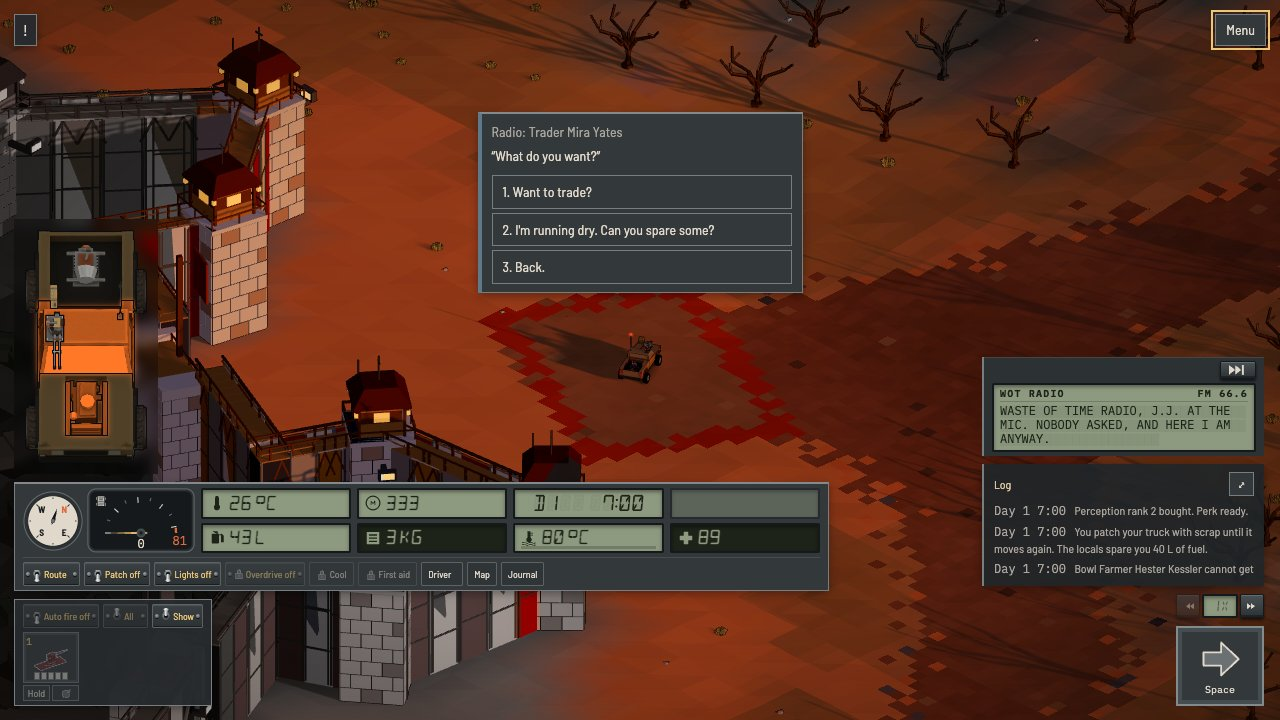
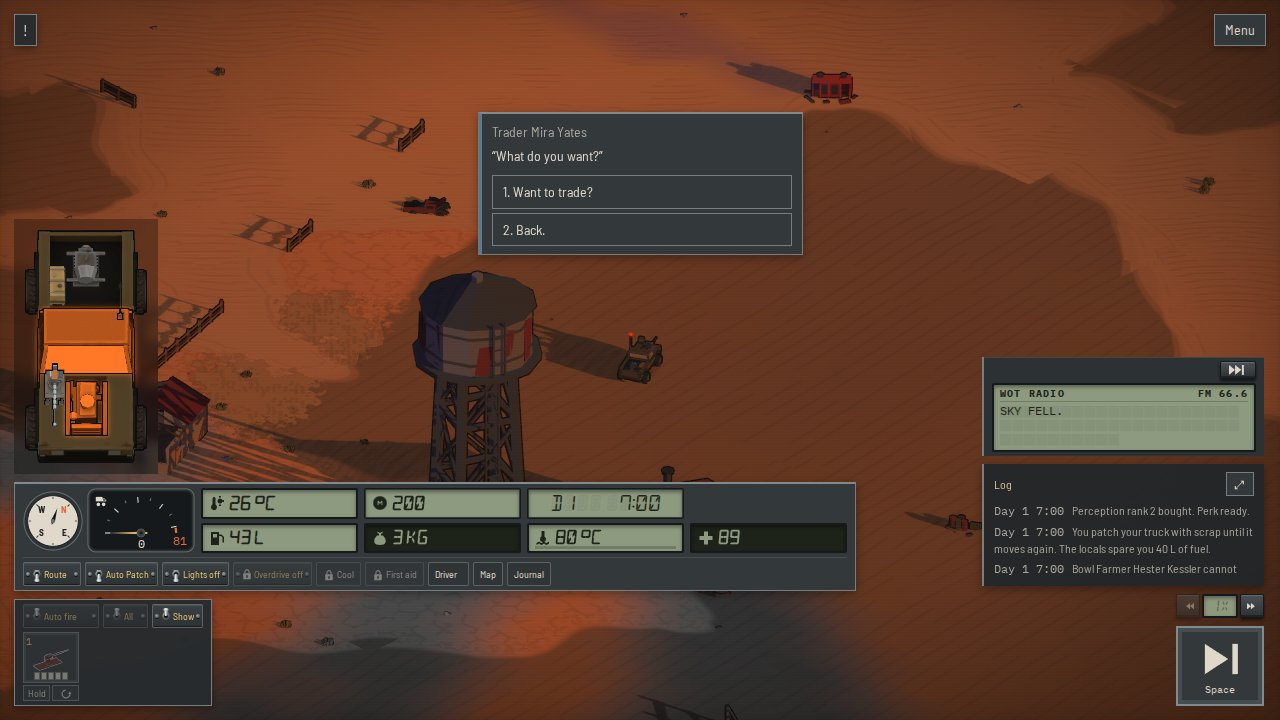
Radio quest questions: first page, stranger's price, wagon from any lead

diff --git a/game/src/sim/dialogue.test.ts b/game/src/sim/dialogue.test.ts
@@ -5,15 +5,15 @@ import { buyPrice, sellPrice } from './economy';
 import { goodBasePrice, goodValue, siteOf, standingPressures, vehicleValue, type Contract } from './market';
 import { makePart } from './factory';
 import { PERSONALITIES, type PersonalityId } from '../data/personalities';
-import { BUSY_LINE, TRAIT_TALK, END, handoffQuest, handoffTopic, HONK_RANGE, HUB, REFUSED, TOLL, TOPICS, type LineId, type Topic, type TopicId } from '../data/dialogue';
+import { BUSY_LINE, TRAIT_TALK, END, handoffQuest, handoffTopic, HONK_RANGE, HUB, REFUSED, STRANGER_TOLL, TOLL, TOPICS, type LineId, type Topic, type TopicId } from '../data/dialogue';
 import { lineKey } from '../text/names';
 import { entryText, schemaOf } from '../text/resolve';
 import { QUESTS, questView } from './quests';
 import { REGION } from '../data/region';
-import { STORY_WRECKS } from '../data/salvage';
+import { STORY_WRECKS, WAGON_TALK } from '../data/salvage';
 import { playerVehicle } from './damage';
 import { asksOf, chooseText } from './dialogue-testkit';
-import { callVehicle, callTrucks, chooseOption, currentOptions, endCallIfOut, hangUp, honk, radioSpeakers, raiseCalls } from './dialogue';
+import { callVehicle, callTrucks, canAskTopic, chooseOption, currentOptions, endCallIfOut, hangUp, honk, radioSpeakers, raiseCalls } from './dialogue';
 import { fireBlock, isHostile } from './combat';
 import { MEMORY, NPC_UPKEEP, NPCS } from '../data/npcs';
 import { RULES } from '../data/rules';
@@ -57,7 +57,7 @@ describe('topic data', () => {
   it('every option leads to a node of its topic, the hub or the end, and every node is reachable', () => {
     for (const topic of Object.values(TOPICS)) {
       expect(topic.nodes[topic.start], `${topic.id} start`).toBeDefined();
-      const entries = [topic.start, ...(topic.ask ? [TOLL] : [])];
+      const entries = [topic.start, ...(topic.ask ? [TOLL, STRANGER_TOLL] : [])];
       const reached = new Set(entries);
       const queue = [...entries];
       while (queue.length > 0) {
@@ -951,7 +951,7 @@ describe('army wagon topic', () => {
 
   function wagonWorld(away = 0): { w: World; npc: Vehicle } {
     const wagon = STORY_WRECKS[0].pos;
-    const at = { x: wagon.x + PERK_NUMBERS.rumorMill.radius - 5 + away, y: wagon.y };
+    const at = { x: wagon.x + WAGON_TALK.reach - 5 + away, y: wagon.y };
     const w = emptyWorld({ x: at.x - 6, y: at.y });
     const npc = addVehicle(w, 'independent', 'scout', ['stockEngine'], at);
     npc.brain = npcBrain('trader', npc.pos, TRAITS_OF.trader);
@@ -970,6 +970,36 @@ describe('army wagon topic', () => {
     expect(next.player.notes.map((n) => n.id)).toEqual(['wagonBowl', 'wagonRoad']);
     expect(next.player.rumored).toEqual([]);
     expect(next.player.talked[npc.id]?.armyWagon).toBe('done');
+  });
+
+  it.each(['wagonBowl', 'wagonNose', 'wagonDag'] as const)('offers the question with the %s note alone', (note) => {
+    const { w, npc } = wagonWorld();
+    w.player.notes = [{ id: note, turn: 0 }];
+
+    expect(canAskTopic(callVehicle(w, npc.id), 'armyWagon')).toBe(true);
+  });
+
+  it('offers the question on the first page of the call', () => {
+    const { w, npc } = wagonWorld();
+    w.player.notes = [{ id: 'wagonDag', turn: 0 }];
+
+    expect(currentOptions(callVehicle(w, npc.id)).some((o) => o.topic === 'armyWagon' && !o.option)).toBe(true);
+  });
+
+  it('stays quiet without a lead, and for a driver beyond the wagon reach', () => {
+    const near = wagonWorld();
+    expect(canAskTopic(callVehicle(near.w, near.npc.id), 'armyWagon')).toBe(false);
+    const far = wagonWorld(10);
+    far.w.player.notes = [{ id: 'wagonBowl', turn: 0 }];
+    expect(canAskTopic(callVehicle(far.w, far.npc.id), 'armyWagon')).toBe(false);
+  });
+
+  it('keeps the wagon reach shorter than its distance to Bowl and to the Pump Station', () => {
+    const wagon = STORY_WRECKS[0].pos;
+    for (const id of ['bowl', 'pump-station']) {
+      const place = [...REGION.towns, ...REGION.locations].find((l) => l.id === id)!;
+      expect(dist(place.pos, wagon), id).toBeGreaterThan(WAGON_TALK.reach);
+    }
   });
 
   it('hands the talk over to the driver quest: the call ends and the quest opens in the same command', () => {
@@ -1440,6 +1470,13 @@ describe('asking after someone', () => {
     const open = callVehicle(w, witness.id);
     return chooseText(open, askText);
   };
+
+  it('shows the question on the first page of the call, however many topics are open', () => {
+    const { w, witness } = searchWorld();
+    const options = currentOptions(callVehicle(w, witness.id));
+
+    expect(options.some((o) => o.topic === 'lastSeen' && !o.option)).toBe(true);
+  });
 
   it('reports the remembered place after the target drove on, never its live place', () => {
     const { w, witness, target } = searchWorld();

diff --git a/game/src/data/dialogue.ts b/game/src/data/dialogue.ts
@@ -63,7 +63,7 @@ export const LINE_IDS = [
   'seenAnythingWorthA', 'sitTight', 'smartChoice', 'sorryCannotSpareAny', 'spare', 'speakUp',
   'standDownAndLet', 'standingDown', 'stateYourBusiness', 'stopShootingIGive', 'surePullOverAnd', 'surrenderOffer',
   'takeMeToSite', 'takeWhatICarry', 'talk', 'talkFast', 'thanksIWillWait', 'thanksOverAndOut', 'thanksSomethingElse',
-  'thenComeAndGet', 'thenWeFinishThis', 'thisIsMine', 'thisWreckIsMine', 'tipTold', 'tooLateForTalk', 'tooMuch', 'thatCostsYou', 'helpMeFirst', 'iKnowWhatYouDid', 'notYourKind',
+  'thenComeAndGet', 'thenWeFinishThis', 'thisIsMine', 'thisWreckIsMine', 'tipTold', 'tooLateForTalk', 'tooMuch', 'thatCostsYou', 'strangerPays', 'helpMeFirst', 'iKnowWhatYouDid', 'notYourKind',
   'truceCost', 'understood', 'wantToTrade', 'weAlreadyTalkedAbout', 'weBothDriveAway',
   'weCoveredThat', 'weWillSee', 'whatAreYouOffering', 'whatCanYouOffer', 'whatDoYouWant', 'whatWouldItCost',
   'whatWouldItTake', 'whateverYouCanSpare', 'where', 'whereIsTheNearest', 'townWay', 'siteWay', 'wreckWay', 'yeahMakeItQuick', 'youHeardMeCargo',
@@ -86,6 +86,7 @@ export const HUB = 'hub';
 export const END = 'end';
 export const REFUSED = 'callRefused';
 export const TOLL = 'toll';
+export const STRANGER_TOLL = 'strangerToll';
 
 function ackTopic(id: TopicId, ask: { say: LineId; when: ConditionId[] }, ack: { line: LineId; say: LineId; effect: EffectId }): Topic {
   const options = [{ say: ack.say, when: [], effects: [ack.effect], go: END }];
@@ -97,9 +98,9 @@ function strandedOffer(id: TopicId, when: ConditionId, line: LineId, accept: Lin
   return { id, once: true, ask: null, raise: { when: [when], priority: 5, duringFeud: true, duringCombat: true }, prepare: null, hangUp: ['settleRefused'], start: 'offer', nodes: { offer: { line, options } } };
 }
 
-function tollNode(go: string): DialogueNode {
+function tollNode(line: LineId, go: string): DialogueNode {
   return {
-    line: 'thatCostsYou',
+    line,
     options: [
       { say: 'dealSendingIt', when: ['canPayTalk'], effects: ['payTalk'], go },
       { say: 'tooMuch', when: [], effects: [], go: HUB },
@@ -131,9 +132,9 @@ export function handoffQuest(go: string): string | null {
 }
 
 function withTolls(topics: Record<TopicId, Topic>): Record<TopicId, Topic> {
-  const own = Object.values(topics).find((topic) => topic.ask && TOLL in topic.nodes);
+  const own = Object.values(topics).find((topic) => topic.ask && (TOLL in topic.nodes || STRANGER_TOLL in topic.nodes));
   if (own) throw new Error(`Topic ${own.id} writes its own toll, which withTolls builds`);
-  return Object.fromEntries(Object.entries(topics).map(([id, topic]) => [id, topic.ask ? { ...topic, nodes: { [TOLL]: tollNode(topic.start), ...topic.nodes } } : topic])) as Record<TopicId, Topic>;
+  return Object.fromEntries(Object.entries(topics).map(([id, topic]) => [id, topic.ask ? { ...topic, nodes: { [TOLL]: tollNode('thatCostsYou', topic.start), [STRANGER_TOLL]: tollNode('strangerPays', topic.start), ...topic.nodes } } : topic])) as Record<TopicId, Topic>;
 }
 
 export const TOPICS: Record<TopicId, Topic> = withTolls({ ...SUNWARD_TOPICS, ...MARSHAL_TOPICS,

diff --git a/game/src/sim/dialogue.ts b/game/src/sim/dialogue.ts
@@ -1,12 +1,12 @@
 
 import { optionShort } from './dialogue-rules';
-import { BUSY_LINE, END, handoffQuest, handoffTopic, HANG_UP_LINE, HUB, REFUSED, TOLL, TOPICS, TRAIT_TALK, type DialogueOption, type LineId, type Topic, type TopicId, type Voice } from '../data/dialogue';
+import { BUSY_LINE, END, handoffQuest, handoffTopic, HANG_UP_LINE, HUB, REFUSED, STRANGER_TOLL, TOLL, TOPICS, TRAIT_TALK, type DialogueOption, type LineId, type Topic, type TopicId, type Voice } from '../data/dialogue';
 import { BACK_LINE, isGroup, MOOD_GREETINGS, PERSONALITIES, TALK_PRICE, TOPIC_GROUPS, TOPIC_MERGE, TOPIC_ROOT, URGENT_TOPICS, type Gate, type GroupId, type Personality, type TopicChild } from '../data/personalities';
 import { inCombat, inCombatWithOther, inFeud, isHostile } from './combat';
 import { playerVehicle, vehicleById } from './damage';
 import { isKnockedOut } from './defeat';
 import { raiseEncounter } from './encounters';
-import { coldLine, CONDITIONS, EFFECTS, gateOpen, moodOf, opensHelp, PREPARES } from './dialogue-rules';
+import { coldLine, CONDITIONS, EFFECTS, gateOpen, HELP_OFFERS, moodOf, opensHelp, PREPARES } from './dialogue-rules';
 import type { Call, CallVars, GameEvent, Vehicle, World } from './types';
 import { dist } from './vec';
 import { npcTraits } from './npc-decisions';
@@ -196,7 +196,7 @@ function routeOf(world: World, npc: Vehicle, topic: Topic, vars: CallVars): stri
 
 function enterTopic(world: World, npc: Vehicle, call: Call, topic: Topic, node: string = topic.start, handoff = false): void {
   const prepared = topic.prepare ? PREPARES[topic.prepare](world, npc) : {};
-  call.vars = node === TOLL ? { ...prepared, price: { kind: 'money', amount: TALK_PRICE } } : prepared;
+  call.vars = node === TOLL || node === STRANGER_TOLL ? { ...prepared, price: { kind: 'money', amount: TALK_PRICE } } : prepared;
   if (!handoff) practice(world, 'call', 1, null, `${npc.id}:${topic.id}`);
   const go = node === topic.start ? routeOf(world, npc, topic, call.vars) : node;
   const target = handoffTopic(go);
@@ -298,11 +298,18 @@ export function askTopic(world: World, topicId: TopicId): World {
   });
 }
 
+function hasHelpOffer(world: World, npc: Vehicle): boolean {
+  return askable(world, npc).some((topic) => HELP_OFFERS.includes(topic.id));
+}
+
 function ask(world: World, npc: Vehicle, call: Call, topic: Topic): void {
   if (!call.asked.includes(topic.id)) call.asked.push(topic.id);
   if (isSettled(world, npc, topic)) return say(world, npc.id, world.player.vehicleId, talkOf(npc).repeatLine, {});
   const gate = gateOf(npc, topic);
-  if (gate === 'help' && !opensHelp(world, npc)) return say(world, npc.id, world.player.vehicleId, 'helpMeFirst', {});
+  if (gate === 'help' && !opensHelp(world, npc)) {
+    if (hasHelpOffer(world, npc)) return say(world, npc.id, world.player.vehicleId, 'helpMeFirst', {});
+    return enterTopic(world, npc, call, topic, STRANGER_TOLL);
+  }
   enterTopic(world, npc, call, topic, gate === 'price' ? TOLL : topic.start);
 }
 

diff --git a/game/src/sim/personality.test.ts b/game/src/sim/personality.test.ts
@@ -1,5 +1,5 @@
 import { describe, expect, it } from 'vitest';
-import { HANG_UP_LINE, TOLL, TOPICS, type LineId, type TopicId } from '../data/dialogue';
+import { HANG_UP_LINE, STRANGER_TOLL, TOLL, TOPICS, type LineId, type TopicId } from '../data/dialogue';
 import type { TraitId } from '../data/npcs';
 import { NPCS } from '../data/npcs';
 import { PERSONALITY_IDS, TALK_PRICE, type PersonalityId } from '../data/personalities';
@@ -135,9 +135,10 @@ describe('information gates', () => {
     expect(choose(next, 'tooMuch').player.money).toBe(TALK_PRICE - 1);
   });
 
-  it('holds back a help gate until the player has helped the driver', () => {
+  it('holds back a help gate while the driver needs help, and answers free once helped', () => {
     const { w, npc } = driver(['trader'], 'tightLipped');
     backFromNose(w, npc);
+    npc.resources!.fuel = 2;
     const held = choose(callVehicle(w, npc.id), ask('marketNews'));
 
     expect(held.player.call?.topic).toBeNull();
@@ -145,5 +146,32 @@ describe('information gates', () => {
     w.player.talked[npc.id] = { offerAid: 'done' };
     const told = choose(callVehicle(w, npc.id), ask('marketNews'));
     expect(told.player.call?.node).toBe(TOPICS.marketNews.start);
+  });
+
+  it('sells a help-gated answer to a stranger who needs nothing, and takes the payment', () => {
+    const { w, npc } = driver(['trader'], 'tightLipped');
+    backFromNose(w, npc);
+    w.player.money = TALK_PRICE + 50;
+    let next = choose(callVehicle(w, npc.id), ask('marketNews'));
+
+    expect(next.player.call?.node).toBe(STRANGER_TOLL);
+    expect(next.player.call?.line.line).toBe('strangerPays');
+    expect(next.player.call?.vars.price).toEqual({ kind: 'money', amount: TALK_PRICE });
+    next = choose(next, 'dealSendingIt');
+    expect(next.player.call?.node).toBe(TOPICS.marketNews.start);
+    expect(next.player.money).toBe(50);
+    expect(next.vehicles.find((v) => v.id === npc.id)!.resources!.money).toBe(TALK_PRICE);
+  });
+
+  it('lets the player turn the stranger price down, or shows no deal when short', () => {
+    const { w, npc } = driver(['trader'], 'tightLipped');
+    backFromNose(w, npc);
+    w.player.money = TALK_PRICE - 1;
+    const next = choose(callVehicle(w, npc.id), ask('marketNews'));
+
+    expect(offered(next)).toEqual(['tooMuch', HANG_UP_LINE]);
+    const back = choose(next, 'tooMuch');
+    expect(back.player.call?.topic).toBeNull();
+    expect(back.player.money).toBe(TALK_PRICE - 1);
   });
 });

diff --git a/game/src/sim/dialogue-rules.ts b/game/src/sim/dialogue-rules.ts
@@ -12,10 +12,10 @@ import type { Mood } from '../data/personalities';
 import { REFUSE_KNOWN_AT } from '../data/npc-behavior';
 import { bandAtLeast, personalTerm, stanceToward } from './relations';
 import { CONTRACTS } from '../data/market';
-import { GAME_NOTES, isNoteId, LOCALS, type LocalDef, type NoteId } from '../data/locals';
+import { GAME_NOTES, isNoteId, LOCALS, WAGON_LEADS, type LocalDef, type NoteId } from '../data/locals';
 import { TRADE_TIP } from '../data/npcs';
 import { PERK_NUMBERS } from '../data/skills';
-import { WAGON_SEVEN } from '../data/salvage';
+import { WAGON_SEVEN, WAGON_TALK } from '../data/salvage';
 import { REGION, type TownDef } from '../data/region';
 import { playerVehicle } from './damage';
 import { discoverSite } from './locations';
@@ -290,6 +290,8 @@ function aidAnswer(world: World, npc: Vehicle): CallVars {
 
 const HELP_TOPICS: readonly TopicId[] = ['offerAid', 'offerTow', 'offerPatch', 'offerPatchWorn', 'patchRequest'];
 
+export const HELP_OFFERS: readonly TopicId[] = ['offerAid', 'offerTow', 'offerPatch', 'offerPatchWorn'];
+
 export function helpedByPlayer(world: World, npc: Vehicle): boolean {
   const talked = world.player.talked[npc.id];
   return HELP_TOPICS.some((topic) => talked?.[topic] === 'done' || talked?.[topic] === 'agreed');
@@ -447,7 +449,7 @@ export const CONDITIONS: Record<ConditionId, Condition> = {
   noHandover: (world, npc) => handoverWith(world, npc) === null,
   sawSought: (_world, _npc, vars) => sightingVar(vars).seen !== null,
   missedSought: (_world, _npc, vars) => sightingVar(vars).seen === null,
-  heardWagonNearby: (world, npc) => holdsNote(world, 'wagonBowl') && dist(npc.pos, storyStock(world, WAGON_SEVEN).pos) <= PERK_NUMBERS.rumorMill.radius,
+  heardWagonNearby: (world, npc) => WAGON_LEADS.some((note) => holdsNote(world, note)) && dist(npc.pos, storyStock(world, WAGON_SEVEN).pos) <= WAGON_TALK.reach,
   nearClaimWreck: (world, npc) => claimSeenBy(world, npc) !== null,
   rivalAsked: (world, npc) => rivalNearWreck(world, requireClaimSeen(world, npc)),
   noRivalAsked: (world, npc) => !rivalNearWreck(world, requireClaimSeen(world, npc)),

diff --git a/game/src/ui/dialogue.test.ts b/game/src/ui/dialogue.test.ts
@@ -1,5 +1,5 @@
 import { describe, expect, it } from 'vitest';
-import { HANG_UP_LINE, LINE_IDS, TOLL, TOPICS, TRAIT_TALK, type LineId, type PrepareId } from '../data/dialogue';
+import { HANG_UP_LINE, LINE_IDS, STRANGER_TOLL, TOLL, TOPICS, TRAIT_TALK, type LineId, type PrepareId } from '../data/dialogue';
 import { TIME } from '../data/time';
 import type { CallVar, CallVars } from '../sim/types';
 import { LOCALES, type Msg } from '../text/msg';
@@ -108,7 +108,7 @@ describe('every radio line', () => {
     for (const topic of Object.values(TOPICS)) {
       const yields = new Set(topic.prepare ? PREPARE_VARS[topic.prepare] : []);
       for (const [id, node] of Object.entries(topic.nodes)) {
-        const known = id === TOLL ? new Set([...yields, 'price']) : yields;
+        const known = id === TOLL || id === STRANGER_TOLL ? new Set([...yields, 'price']) : yields;
         for (const name of named(node.line)) expect(known.has(name), `${topic.id} ${node.line} {${name}}`).toBe(true);
         for (const option of node.options) expect(named(option.say), `${topic.id} ${option.say}`).toEqual([]);
       }

diff --git a/game/src/text/ru/talk.ts b/game/src/text/ru/talk.ts
@@ -312,6 +312,7 @@ export const TALK: Translation<typeof EN> = {
   'line.tooLateForTalk': 'Поздно болтать.',
   'line.tooMuch': 'Слишком дорого.',
   'line.thatCostsYou': 'Это стоит {price}. Заплатишь, расскажу.',
+  'line.strangerPays': 'Чужим задаром не рассказываю. {price}, тогда поговорим.',
   'line.iKnowWhatYouDid': 'Знаю я твои делишки. Поищи, с кем другим поговорить.',
   'line.notYourKind': 'У моих твое имя на плохом счету. Проезжай.',
   'line.helpMeFirst': 'Чужим не рассказываю. Сперва помоги, потом поговорим.',

diff --git a/game/src/text/en/talk.ts b/game/src/text/en/talk.ts
@@ -311,6 +311,7 @@ export const TALK = {
   'line.tooLateForTalk': 'Too late for talk.',
   'line.tooMuch': 'Too much.',
   'line.thatCostsYou': m('That costs {price}. Then I talk.', { price: 'text' }),
+  'line.strangerPays': m("I don't talk to strangers for free. {price}, then I'll talk.", { price: 'text' }),
   'line.iKnowWhatYouDid': 'I know what you did. Find someone else to talk to.',
   'line.notYourKind': 'Your name is no good with my people. Move along.',
   'line.helpMeFirst': 'Not for a stranger. Help me out first, then we talk.',

diff --git a/game/src/data/personalities.ts b/game/src/data/personalities.ts
@@ -174,6 +174,10 @@ export const URGENT_TOPICS: readonly UrgentTopic[] = [
   { topic: 'buyTruce', when: [] },
   { topic: 'yieldDemand', when: [] },
   { topic: 'payBounty', when: [] },
+  { topic: 'lastSeen', when: [] },
+  { topic: 'parcel', when: [] },
+  { topic: 'claimWreck', when: [] },
+  { topic: 'armyWagon', when: [] },
   { topic: 'directions', when: ['farFromTown'] },
 ];
 

diff --git a/game/src/data/locals.ts b/game/src/data/locals.ts
@@ -5,6 +5,8 @@ export const NOTE_IDS = [
   'greenPit', 'orchardIron', 'talkConvoyNotClean',
 ] as const;
 
+export const WAGON_LEADS: readonly NoteId[] = ['wagonBowl', 'wagonNose', 'wagonDag'];
+
 export type NoteId = (typeof NOTE_IDS)[number];
 
 export function isNoteId(id: string): id is NoteId {

diff --git a/game/src/data/salvage.ts b/game/src/data/salvage.ts
@@ -212,6 +212,7 @@ export type StoryWreck = {
 };
 
 export const WAGON_SEVEN = 'story-wagon-seven';
+export const WAGON_TALK = { reach: 200 } as const;
 
 export const STORY_WRECKS: StoryWreck[] = [
   {

diff --git a/game/docs/wiki/mechanics/social.md b/game/docs/wiki/mechanics/social.md
@@ -10,11 +10,11 @@ Talk is built from topics. A topic is lines and replies in data, and its logic i
 
 A driver answers a call in a voice that fits what it sees. A driver that is shooting at the player, a player under fire from someone else, a stranded player and a fight that just ended each get their own greeting. A raider or marshal that attacks answers first, then a cold line for a driver that distrusts the player, then the other moods, then its usual greeting.
 
-A call shows at most five options, Hang up included, and every option reads as something the player says. When a driver can take up more than four topics, the urgent ones stand on the first page: "What do you want?" to an attacker, help in a fight, a truce, mercy, a tow, fuel, a patch, buying peace, giving in to a demand, paying a bounty, and directions when the player is far from any town. The rest gather under folders like "Tell me about the road…", "Let's talk business…" and "Let's settle this…". A folder opens its own list with a Back at the end, and a folder with one topic to offer shows that topic itself. Picking a folder or Back says nothing on the radio and costs no turn. An option that holds nothing new shows darker: a topic already asked in this call, a once-only topic that is settled, or a folder whose topics are all like that. Picking one still works.
+A call shows at most five options, Hang up included, and every option reads as something the player says. When a driver can take up more than four topics, the urgent ones stand on the first page: "What do you want?" to an attacker, help in a fight, a truce, mercy, a tow, fuel, a patch, buying peace, giving in to a demand, paying a bounty, and directions when the player is far from any town. The question of a held lead stands there too, after the fight and rescue topics: after the person a search job seeks, a parcel's receiver, a salvage claim's wreck and the lost Army wagon. The rest gather under folders like "Tell me about the road…", "Let's talk business…" and "Let's settle this…". A folder opens its own list with a Back at the end, and a folder with one topic to offer shows that topic itself. Picking a folder or Back says nothing on the radio and costs no turn. An option that holds nothing new shows darker: a topic already asked in this call, a once-only topic that is settled, or a folder whose topics are all like that. Picking one still works.
 
 "What do you want?" is open to a driver that is shooting at the player. It answers with the demand it would make as the fight's terms: cargo, a cut, surrender, giving up or a spill claim. When it has none, or the player already refused it, it says it wants nothing but the fight, and the player can still ask for a truce or beg for mercy from there.
 
-- Personality: each driver is drawn one of eight personalities at spawn, and it never changes. It changes how the driver speaks and which information it shares, never what it does. Directions, market news, site tips, trading tips and rumors are open, closed, held for a small payment, or held until the player has helped that driver with aid, a tow or a patch, or until the driver's faction is friendly with the player. A wary driver answers with a cold line and keeps its trade and news to itself, but still answers a rescue. [Factions and relations](factions.md) has the bands. A gossip tells two rumors and a braggart tells tall tales. Each personality passes on its own kinds of rumor.
+- Personality: each driver is drawn one of eight personalities at spawn, and it never changes. It changes how the driver speaks and which information it shares, never what it does. Directions, market news, site tips, trading tips and rumors are open, closed, held for a small payment, or held until the player has helped that driver with aid, a tow or a patch, or until the driver's faction is friendly with the player. A help-held topic answers free once helped. While the driver needs help the player can give, it says to help first, and the offer is in the same call. A stranger who needs nothing sells the answer for the same small payment, in its own line. A wary driver answers with a cold line and keeps its trade and news to itself, but still answers a rescue. [Factions and relations](factions.md) has the bands. A gossip tells two rumors and a braggart tells tall tales. Each personality passes on its own kinds of rumor.
 - Directions: traders and scavengers name the nearest town they know and tell the way by roads, turns and landmarks, never a bearing or a distance in meters. Every driver knows the roads, the sites, the bridges and the tall landmark props, so the route names them: "At Dustwell, turn left onto the road to Nose." A turn with no landmark is told by counting forks, only up to the third fork and only when the forks are at least 25 tiles apart and from the start of the leg: "At the second fork, turn left." A turn that cannot be told that way, or a sixth turn, ends the answer with "Ask again on the way." The place is named once, in the first words, and a town is never the landmark of the way to itself. A span ("a fair way") is said only off the road, and a long road leg gets "It's a long haul." The last road is not named again: "The road takes you right in." A driver far from any road, or a map with no road to the town, says it knows no road there. A way to a spot, like a wreck, leaves the road within 100 tiles of it, at a landmark or at "Where the road enters square D5"; with neither, the answer ends with "Ask again on the way." The leave heading is an octant, with a half-step lean when the true bearing is more than 11.25° off it: "head south and a touch east." A shop tells its way from its own gate, and a town with two gates opens with the one it uses: "Leave by the east gate." The town counts as found, but it shows on the map only once its ground is explored. The first road names the way to drive along it, as a compass point: "Follow the road west." A road named by its heading is not given it twice.
 - Anything interesting: traders, scavengers, couriers, roamers, vultures and suppliers tell one trading tip from the shops they did business at in the last day. They name a good they saw at least a fifth over or under its value, the furthest off first, or say they have nothing worth telling. The tip is as old as the visit, so prices may have moved since.
 - Any tips for the road: every voiced driver that is at peace with the player answers, whatever its personality, and tells one short story once per driver, then gives its repeat line. The driver's trade picks the story: haulers (traders, suppliers), salvagers (scavengers, vultures, roamers), lawmen (lawmen, guards, marshals) or gun hands (mercs, couriers). Raiders tell none. A driver with no voice, like a scumbag, tells its main trade's stories. If the player's truck shows a weakness, about half of the drivers tell a story about one of them, picked by the driver: no working gun, a side with armor mounts and no working armor, an engine, gearbox or tank worn enough for a roadside patch, or mass above the chassis's rated mass. The rest, and every driver when the truck shows no weakness, tell one of the trade's twelve general stories. The pick uses the world seed and the driver's id and rolls nothing. A story pays nothing and marks nothing. It gives the usual once-per-driver Social practice of any call.
@@ -43,7 +43,7 @@ A call shows at most five options, Hang up included, and every option reads as s
 - Claimed wreck: while the player holds a salvage claim whose part still lies in its wreck, a driver that talks rumors and is within 240 m of that wreck can tell where it lies, as a compass point and a distance from the player rounded to 50 m. A tight-lipped driver wants a small payment first, a suspicious one wants help first, and a grim one does not say. The rival crew on that claim never answers. Each driver tells once, and the journal keeps the answer under the claimed part, with the driver's name. Asking whether anyone else asked says whether the rival crew is near the wreck. It marks nothing.
 - The Sunward: a car of the order answers every call with an open channel and nothing else, and offers no topic. During its vigil at the Fallen Sun it calls the player itself, up to three times a night, as [World](world.md#the-sunward) describes. The player agrees, refuses or hangs up. Refusing or hanging up on the third call starts a fight.
 - The crater at night: traders, scavengers, couriers, roamers, vultures and suppliers answer a question about the crater at night, gated by personality like market news. While the order stands they tell of the lamps and the dragged trucks, and after it falls of the quiet.
-- Dead Army wagon: once the player has heard at Bowl of a lost Army wagon, a driver that talks rumors and passed near the wagon can tell where it lies. It needs no perk and marks nothing. Its words go into the journal. Asking what else it saw ends the call and goes on in the talk window, about the raiders' tracks, the crew and what is left on the wreck.
+- Dead Army wagon: once the player has heard of a lost Army wagon from Hattie at Bowl, Kovac or Dag, a driver that talks rumors and is within 800 m of the wagon, on the Bowl north road past it, can tell where it lies. Drivers at Bowl and the Pump Station are too far. It needs no perk and marks nothing. Its words go into the journal. Asking what else it saw ends the call and goes on in the talk window, about the raiders' tracks, the crew and what is left on the wreck.
 
 ## Settlement talk
 
